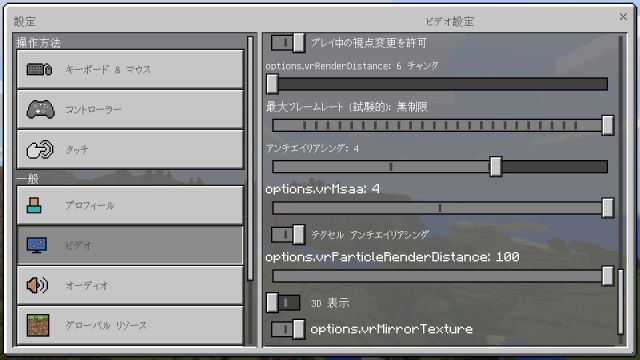
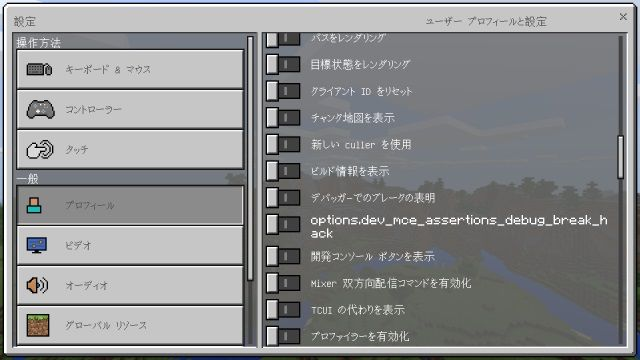
HiddenOptions - 1.2.0

diff --git a/html/distributions/hidden_options.html b/html/distributions/hidden_options.html
@@ -31,31 +31,38 @@
     </div>
     <div class="materialy-card">
       <p class="materialy-card__title">動作環境</p>
-      <p class="materialy-card__text">Minecraft : 1.2.10.2(で確認)</p>
+      <p class="materialy-card__text">Minecraft : 1.2.13.54(で確認)</p>
       <p class="materialy-card__text">他のバージョンでも使用できる場合や使用できない場合があります</p>
     </div>
     <div class="materialy-card">
       <p class="materialy-card__title">ダウンロード</p>
-      <p class="materialy-card__text">最新バージョン: 1.1.0</p>
+      <p class="materialy-card__text">最新バージョン: 1.2.0</p>
       <p class="materialy-card__text">ファイルをダウンロードした時点で<a href="../license.html">ライセンス</a>に同意したことになります</p>
-      <a class="materialy-button--flat--accent" href="https://www.mediafire.com/file/7s20r9q5i4f4dnj/HiddenOptions_v1.1.0.mcpack">mcpack</a>
-      <a class="materialy-button--flat--accent" href="https://www.mediafire.com/file/4m7fvovr4lc8rn2/HiddenOptions_v1.1.0.zip">zip</a>
+      <a class="materialy-button--flat--accent" href="https://www.mediafire.com/file/v9l78xh9bswva0k/HiddenOptions_v1.2.0.mcpack">mcpack</a>
+      <a class="materialy-button--flat--accent" href="https://www.mediafire.com/file/wabbuyaf7zzv5o0/HiddenOptions_v1.2.0.zip">zip</a>
     </div>
     <div class="materialy-card">
       <p class="materialy-card__title">スクリーンショット</p>
       <div class="materialy-card__image"><img src="../../image/distributions/hidden_options/screenshot_1.jpg"></div>
       <p class="materialy-card__text">タッチ設定</p>
       <div class="materialy-card__image"><img src="../../image/distributions/hidden_options/screenshot_2.jpg"></div>
-      <p class="materialy-card__text">Debug設定の一部(全て機能しません</p>
+      <p class="materialy-card__text">設定に表示されるセクション</p>
       <div class="materialy-card__image"><img src="../../image/distributions/hidden_options/screenshot_3.jpg"></div>
+      <p class="materialy-card__text">Debug設定の一部(全て機能しません</p>
+      <div class="materialy-card__image"><img src="../../image/distributions/hidden_options/screenshot_4.jpg"></div>
       <p class="materialy-card__text">ビデオ設定の一部</p>
     </div>
     <div class="materialy-card">
       <p class="materialy-card__title">更新履歴</p>
+      <p class="materialy-card__subtitle">1.2.0</p>
+      <p class="materialy-card__text">1.2.13.54に対応</p>
+      <p class="materialy-card__text">DebugSection・Swicth向けコントロール設定・VRSectionを表示させるように</p>
+      <p class="materialy-card__text">プロフィールセクションからデバッグ設定を削除</p>
+      <a class="materialy-button--flat--accent" href="https://www.mediafire.com/folder/l170loetdvs4l/1.2.0">1.2.0</a>
       <p class="materialy-card__subtitle">1.1.0</p>
       <p class="materialy-card__text">1.2.10.2に対応</p>
       <p class="materialy-card__text">DebugSectionの設定をプロフィール欄に追加</p>
-      <a class="materialy-button--flat--accent" href="https://www.mediafire.com/folder/emirl5xjz3rzl/1.0.1">1.1.0</a>
+      <a class="materialy-button--flat--accent" href="http://www.mediafire.com/folder/ysasuqr57fxns/1.1.0">1.1.0</a>
       <p class="materialy-card__subtitle">1.0.1</p>
       <p class="materialy-card__text">1.2.10.1(Beta)に対応</p>
       <a class="materialy-button--flat--accent" href="https://www.mediafire.com/folder/emirl5xjz3rzl/1.0.1">1.0.1</a>
